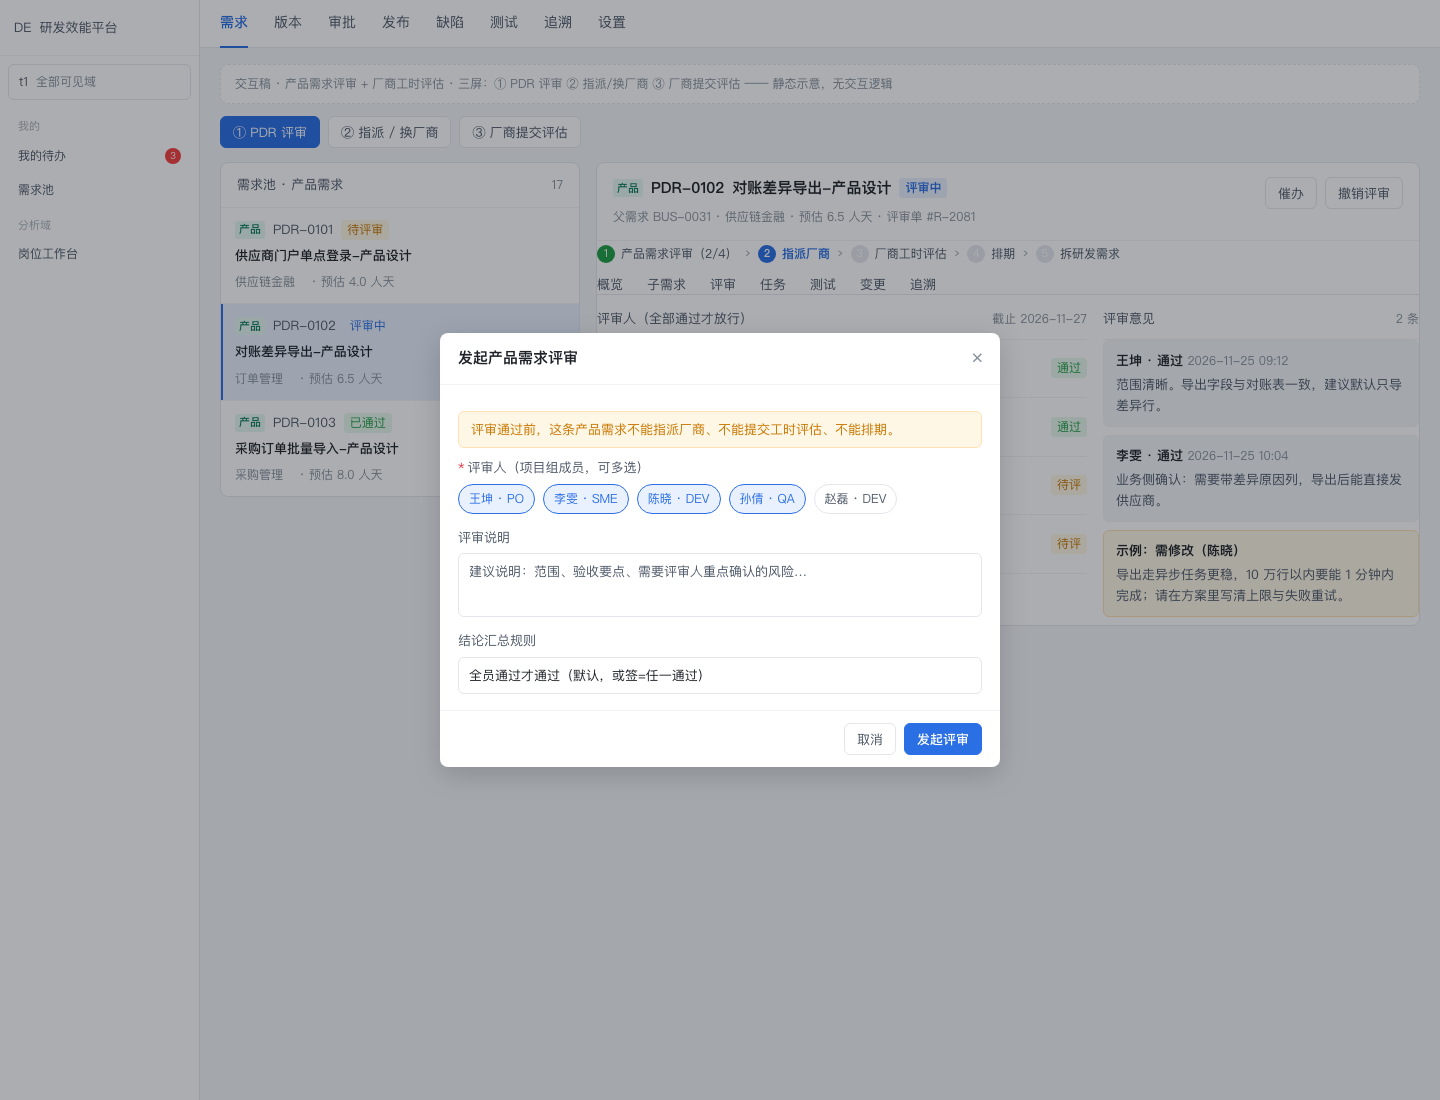
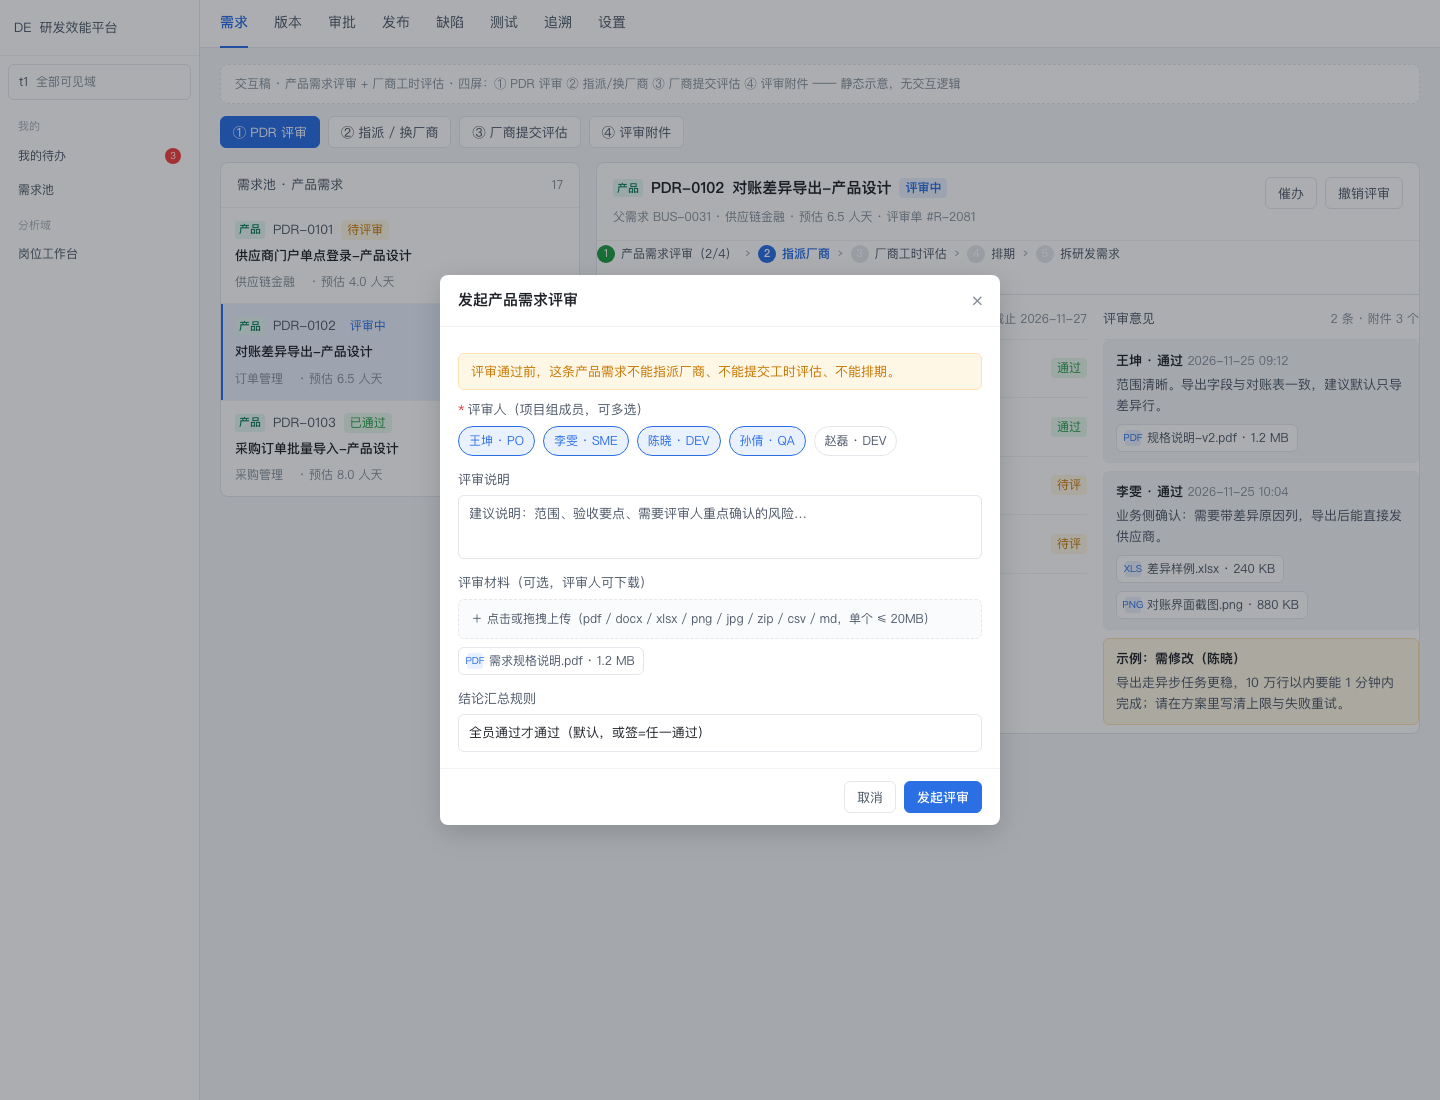
docs: 方案补「评审附件」——复用既有 attachment 基础设施（bizType=PDR_REVIEW），含权限/白名单/20MB/评审结束只读与 B6–B9 验收；交互稿加第 4 屏

diff --git a/docs/teamflow/prototype-pdr-review/index.html b/docs/teamflow/prototype-pdr-review/index.html
@@ -35,6 +35,10 @@
   .member-pick{display:flex;flex-wrap:wrap;gap:8px}
   .member-pick .m{display:flex;align-items:center;gap:6px;border:1px solid var(--border);border-radius:16px;padding:5px 10px;font-size:12px;background:#fff}
   .member-pick .m.sel{border-color:var(--primary);background:var(--primary-light);color:var(--primary)}
+  .attach{display:flex;flex-wrap:wrap;gap:8px;margin-top:8px}
+  .attach .a{display:flex;align-items:center;gap:6px;border:1px solid var(--border);border-radius:6px;padding:4px 8px;font-size:12px;color:var(--text-body);background:#fff}
+  .attach .a .ic{width:16px;height:16px;border-radius:3px;background:var(--primary-light);color:var(--primary);font-size:10px;display:inline-flex;align-items:center;justify-content:center}
+  .upload{border:1px dashed var(--border);border-radius:6px;padding:10px 12px;font-size:12px;color:var(--text-muted);display:flex;align-items:center;gap:8px;background:#FAFBFC}
   .diff{display:flex;gap:12px;align-items:center;font-size:13px}
   .diff .old{color:var(--text-muted);text-decoration:line-through}
   .diff .new{color:var(--primary);font-weight:600}
@@ -56,11 +60,12 @@
   <div class="main">
     <div class="topnav"><a class="active">需求</a><a>版本</a><a>审批</a><a>发布</a><a>缺陷</a><a>测试</a><a>追溯</a><a>设置</a></div>
     <div class="page">
-      <div class="proto-bar">交互稿 · 产品需求评审 + 厂商工时评估 · 三屏：① PDR 评审 ② 指派/换厂商 ③ 厂商提交评估 —— 静态示意，无交互逻辑</div>
+      <div class="proto-bar">交互稿 · 产品需求评审 + 厂商工时评估 · 四屏：① PDR 评审 ② 指派/换厂商 ③ 厂商提交评估 ④ 评审附件 —— 静态示意，无交互逻辑</div>
       <div class="switcher">
         <button class="btn on" data-sec="s1">① PDR 评审</button>
         <button class="btn" data-sec="s2">② 指派 / 换厂商</button>
         <button class="btn" data-sec="s3">③ 厂商提交评估</button>
+        <button class="btn" data-sec="s4">④ 评审附件</button>
       </div>
 
       <!-- ============ 屏 1：PDR 评审 ============ -->
@@ -124,14 +129,16 @@
                 </div>
 
                 <div class="panel" style="border:none">
-                  <div class="panel-head" style="padding:0 0 10px"><span>评审意见</span><span class="muted">2 条</span></div>
+                  <div class="panel-head" style="padding:0 0 10px"><span>评审意见</span><span class="muted">2 条 · 附件 3 个</span></div>
                   <div class="opinion">
                     <div class="who">王坤 · 通过 <span class="muted" style="font-weight:400">2026-11-25 09:12</span></div>
                     <div class="body">范围清晰。导出字段与对账表一致，建议默认只导差异行。</div>
+                    <div class="attach"><span class="a"><span class="ic">PDF</span>规格说明-v2.pdf · 1.2 MB</span></div>
                   </div>
                   <div class="opinion">
                     <div class="who">李雯 · 通过 <span class="muted" style="font-weight:400">2026-11-25 10:04</span></div>
                     <div class="body">业务侧确认：需要带差异原因列，导出后能直接发供应商。</div>
+                    <div class="attach"><span class="a"><span class="ic">XLS</span>差异样例.xlsx · 240 KB</span><span class="a"><span class="ic">PNG</span>对账界面截图.png · 880 KB</span></div>
                   </div>
                   <div class="opinion" style="background:#FFF7E6;border-color:#FFE0B2">
                     <div class="who">示例：需修改（陈晓）</div>
@@ -160,6 +167,11 @@
               <div class="field">
                 <label>评审说明</label>
                 <div class="input ph" style="min-height:64px">建议说明：范围、验收要点、需要评审人重点确认的风险…</div>
+              </div>
+              <div class="field">
+                <label>评审材料（可选，评审人可下载）</label>
+                <div class="upload">＋ 点击或拖拽上传（pdf / docx / xlsx / png / jpg / zip / csv / md，单个 ≤ 20MB）</div>
+                <div class="attach"><span class="a"><span class="ic">PDF</span>需求规格说明.pdf · 1.2 MB</span></div>
               </div>
               <div class="field" style="margin:0">
                 <label>结论汇总规则</label>
@@ -274,6 +286,39 @@
               <div class="hint" style="margin-top:10px">审批通过后评估单绑定本厂商；换厂商会使其失效。审批人：产品经理 → 项目域负责人。</div>
             </div>
             <div class="modal-foot"><button class="btn">取消</button><button class="btn btn-primary">提交评估</button></div>
+          </div>
+        </div>
+      </section>
+      <!-- ============ 屏 4：评审附件 ============ -->
+      <section class="sec" id="s4">
+        <div class="panel" style="max-width:860px">
+          <div class="detail-head">
+            <div>
+              <div class="detail-title"><span class="tag tag-pdr">产品</span> <span class="mono">PDR-0102</span> 对账差异导出-产品设计 <span class="pill pill-blue">评审中</span></div>
+              <div class="meta">当前登录：<b>陈晓 · 研发负责人（评审人）</b> · 评审单 #R-2081 · 截止 2026-11-27</div>
+            </div>
+            <div class="head-actions"><button class="btn">下载全部（3）</button></div>
+          </div>
+
+          <div class="warn">附件只有「本次评审的评审人 / 发起人」能在评审进行中上传；评审结束后只读，下载仍走鉴权（越权 404）。</div>
+
+          <div class="panel" style="border:none">
+            <div class="panel-head" style="padding:0 0 10px"><span>我的评审意见</span><span class="muted">提交后可修改，直到结论生成</span></div>
+            <div class="field"><label>结论</label>
+              <div class="member-pick"><span class="m">通过</span><span class="m sel">需修改</span><span class="m">驳回</span></div>
+            </div>
+            <div class="field"><label>意见</label>
+              <div class="input" style="min-height:64px">导出走异步任务更稳，10 万行以内要能 1 分钟内完成；附上压测数据。</div>
+            </div>
+            <div class="field" style="margin:0">
+              <label>附件（最多 5 个，单个 ≤ 20MB）</label>
+              <div class="upload">＋ 上传附件（pdf / docx / xlsx / png / jpg / zip / csv / md）</div>
+              <div class="attach">
+                <span class="a"><span class="ic">XLS</span>10万行压测结果.xlsx · 620 KB</span>
+                <span class="a"><span class="ic">PDF</span>导出方案-v3.pdf · 1.8 MB</span>
+              </div>
+            </div>
+            <div class="modal-foot" style="border:none;padding:12px 0 0"><button class="btn">取消</button><button class="btn btn-primary">提交意见</button></div>
           </div>
         </div>
       </section>

diff --git a/docs/teamflow/CHANGE-PDR-REVIEW-VENDOR-ESTIMATE.md b/docs/teamflow/CHANGE-PDR-REVIEW-VENDOR-ESTIMATE.md
@@ -23,6 +23,8 @@
 | 产品需求评审 | **不存在**。仅业务需求有 `REQ_REVIEW`，且审批通过由回调自动推进 POOLED | `PlatformContract`/`StateTables.java:66-71`；`req-service/.../requirement/RequirementReviewCallback.java:26-30` |
 | 审批引擎能力 | 支持 5 类单据、节点会签/或签（`MODE_ALL`/`MODE_ANY`）、审批人来源 `ROLE/USER/SUPERVISOR/DOMAIN_OWNER`，可复用来做「多人评审」 | `req-service/.../approval/WorkflowDefinition.java:27-28`、`ApproverResolver.java:18-78`、`ApprovalEngine.java:542` |
 | 项目组 / 项目成员 | **全仓不存在**（`grep -rniE "project_member\|projectMember\|sys_project\|项目组"` 零命中） | 需新增，否则「评审人从项目组成员里选」没有数据来源 |
+| 附件能力 | **已有通用附件基础设施**：`attachment` 表（`biz_type/biz_id/file_name/path/size/content_type/sha256/uploader_id`）+ `GET/POST/DELETE /attachments` + `/{id}/download`；限制 20MB、校验 bizId 归属、写 `ATTACH_DELETE` 审计 | `req-service/src/main/java/com/example/req/attachment/{AttachmentController,AttachmentService,AttachmentEntity}.java`；`AttachmentService.java:55`（20MB）、`:278-294`（bizType 白名单） |
+| 附件业务类型 | 目前只支持 `REQ / DEFECT / TEST_PLAN / WIKI_PAGE` 四类；路由权限落 `page("req.pool","defect.list","test.cases","collab.wiki")` | `AttachmentService.java:278-294`、`PermissionRouteTable.java:393-394` |
 | 迁移现状 | 最新 `V16__requirement_change.sql`，新增从 **V17** 起 | `req-service/src/main/resources/db/migration/` |
 
 **一个容易踩的坑**：`POST /requirements/{id}/estimate` 在路由表里落到兜底规则 `^/requirements.*$ → page("req.pool","me.tasks")`（`PermissionRouteTable.java:163`），所以它**看起来**没有权限校验；真正的 403 来自服务层 `requireDeliverPermission`（`WbsEstimateService.java:583-590`）。改造时若要新增动作码，必须把精确规则插在这条兜底之前，否则会被页面权限放行。
@@ -89,7 +91,19 @@
 | `pdr_review` | `id, tenant_id, requirement_id, project_id, instance_id, status(DRAFT/IN_REVIEW/PASSED/REJECTED/CANCELLED), conclusion, initiator_id, created_at, closed_at` | **`uk(requirement_id) where status='IN_REVIEW'`**（同一需求同时只允许 1 张在评）；`idx(tenant_id, status)` |
 | `pdr_review_opinion` | `id, tenant_id, review_id, reviewer_id, decision(PASS/NEED_CHANGE/REJECT), comment, created_at` | `uk(review_id, reviewer_id)`（同一人只留一条有效意见，重提覆盖并进历史） |
 
-### 4.2 既有表增量
+### 4.2 评审附件（复用既有附件表，不新增表）
+
+评审意见要能带附件，**不新建表**，复用 `attachment`：
+
+| 项 | 取值 |
+|---|---|
+| `biz_type` | 新增白名单值 `PDR_REVIEW`（`AttachmentService.normalizeType` 扩展） |
+| `biz_id` | `pdr_review.id`（评审单级，不挂到单条意见上——意见与附件都在评审单下，读侧按人分组） |
+| 可选扩展 | 若需要"附件属于某条意见"，加一列 `ref_id BIGINT NULL`（指向 `pdr_review_opinion.id`），缺省**不加**，先按评审单维度 |
+
+> 路由权限沿用 `page("req.pool", …)`（`PermissionRouteTable.java:393-394`），上传的**归属校验**放在服务层（只允许本次评审的评审人/发起人在评审进行中上传）。
+
+### 4.3 既有表增量
 
 | 表 | 新增列 | 说明 |
 |---|---|---|
@@ -111,7 +125,16 @@
 | `POST` | `/pdr-reviews/{reviewId}/conclude` | 汇总结论（**也可以全票后自动汇总**，见 §6 R2） | 动作码 `req.action.pdr_review_conclude` |
 | `GET` | `/requirements/{id}/pdr-review` | 读评审单 + 意见列表 | 页面码 `req.pool` |
 
-### 5.2 变更
+### 5.2 评审附件（复用 `/attachments`，不新增端点）
+
+| 方法 | 路径 | 说明 |
+|---|---|---|
+| `POST` | `/attachments?bizType=PDR_REVIEW&bizId={reviewId}` | 评审人上传附件（multipart `file`）；仅 `IN_REVIEW` 期间、仅该评审的评审人/发起人 |
+| `GET` | `/attachments?bizType=PDR_REVIEW&bizId={reviewId}` | 列附件（评审人、发起人、能看到该需求的角色） |
+| `GET` | `/attachments/{id}/download` | 下载（走现有鉴权与范围校验） |
+| `DELETE` | `/attachments/{id}` | 删除：仅上传者本人或产品经理，且评审未结束 |
+
+### 5.3 变更
 
 | 接口 | 变更 |
 |---|---|
@@ -126,6 +149,7 @@
 - **R3 换厂商**：允许窗口 = RD 处于 `TODO` 且 PDR 未进 `IN_DEV`；换厂商 → 该需求 `APPROVED` 评估单派生 `STALE`（原因 `VENDOR_CHANGED`）→ 状态回到「待评估」；`IN_DEV` 之后 409 `VENDOR_LOCKED`；换厂商必须填原因，写 `VENDOR_CHANGED` 审计并通知新旧厂商。
 - **R4 厂商评估**：厂商账号（`VENDOR_PM` 与厂商研发）可提交评估，且 `requirement.assignee_vendor_id == user.vendorId`，否则 `403 OUT_OF_SCOPE`；内部 PMO/研发**保留提交权**（缺省保留，便于兜底），但同样要求先指派厂商。
 - **R5 幂等与并发**：同一需求同时只有 1 张 `IN_REVIEW` 评审单、1 张 `ACTIVE` 评估单；并发发起/重复提交用唯一约束 + 409 兜底；换厂商与提交评估加乐观锁（`version`）避免「换厂商后立刻被旧厂商提交评估」。
+- **R7 评审附件**：`bizType=PDR_REVIEW` 时，服务层校验「调用者是本次评审的评审人或发起人」且「评审单状态 = IN_REVIEW」，否则 `403 NOT_REVIEWER` / `409 REVIEW_CLOSED`；上传沿用 20MB 上限与 `sha256`；类型白名单（缺省 `pdf/docx/xlsx/png/jpg/zip/csv/md`），非白名单 `415 UNSUPPORTED_MEDIA_TYPE`；**不落公开 URL**，下载一律过鉴权（越权 404，不泄露存在性）；评审结束后附件只读，删除 → 409 `REVIEW_CLOSED`。
 - **R6 审计**：`PDR_REVIEW_START` / `PDR_REVIEW_OPINION` / `PDR_REVIEW_REJECT` / `PDR_REVIEW_PASS` / `VENDOR_CHANGED` / `ESTIMATE_STALE_BY_VENDOR`，全部进动态流与追溯。
 
 ## 7. 权限与动作码
@@ -144,8 +168,10 @@
 ![PDR 评审](prototype-pdr-review/shot-1-pdr-review.png)
 ![指派/换厂商](prototype-pdr-review/shot-2-vendor-transfer.png)
 ![厂商提交评估](prototype-pdr-review/shot-3-vendor-estimate.png)
+![评审附件](prototype-pdr-review/shot-4-review-attachments.png)
 
 
+0. **评审附件**：发起评审弹窗里可先挂「评审材料」；每位评审人提交意见时可附 1–5 个附件（截图里是「规格说明.pdf / 差异样例.xlsx」这类），意见卡下方展示附件 chip（文件名 + 大小 + 下载）；评审结束后 chip 变只读、无删除按钮。
 1. **PDR 详情新增「评审」tab**：发起按钮 + 评审人选择（只能选项目组成员，多选）+ 说明；列表展示每人「通过/需修改/驳回 + 意见 + 时间」；顶部结论条（N/M 已评）。
 2. **指派厂商弹窗改造**：加「换厂商会作废已通过的工时评估，需重新评估」的黄色提示；原因必填；`IN_DEV` 后按钮禁用并给原因。
 3. **工时评估弹窗改造**：显示「承接厂商」徽标；厂商账号进入时默认本单位；非本厂商或无权限时按钮禁用 + 悬停原因（沿用 r25 的 `需要权限：<码>` 文案形态）。
@@ -156,7 +182,7 @@
 | 样例 | 期望 |
 |---|---|
 | 项目 | `DEMO-PROJ-1 供应链平台`，成员 5 人（产品经理/域负责人/研发/测试/厂商 PM） |
-| PDR-1 | 待评审（评审单 IN_REVIEW，2/4 已评） |
+| PDR-1 | 待评审（评审单 IN_REVIEW，2/4 已评），带 2 个评审附件（`规格说明.pdf`、`差异样例.xlsx`） |
 | PDR-2 | 评审通过、已指派 VEN-A、待提交评估 |
 | PDR-3 | 评审通过、VEN-A 评估通过、已排期 |
 | RD | 挂在 PDR-3 下，`TODO`（可用于演示换厂商 → 评估失效） |
@@ -175,8 +201,12 @@
 | B3 | 重新发起并 4 人全通过 | `PASSED`；此后指派厂商 200 |
 | B4 | 评审人不在项目组 | 400 `REVIEWER_NOT_IN_PROJECT` |
 | B5 | 项目组为空发起评审 | 按回退规则（产品经理+域负责人）成功，响应带 `fallback:true` |
+| B6 | 评审人 `bizType=PDR_REVIEW` 上传 2MB PDF | 201；`GET /attachments` 能看到；下载 200 内容一致（sha256 相同） |
+| B7 | 非本评审的评审人上传 | 403 `NOT_REVIEWER` |
+| B8 | 评审结束后再上传/删除 | 409 `REVIEW_CLOSED`；下载仍可（只读） |
+| B9 | 上传 25MB 文件 / 上传 `.exe` | 413 `FILE_TOO_LARGE` / 415 `UNSUPPORTED_MEDIA_TYPE` |
 
-门禁：既有 9 套不得降（`rbac` / `access` / `platform` / `negative` / `release-flow` / `gate-order` / `automation` / `change` / `demo-reset`）；新增 `scripts/pdr-flow-verify.sh` ≥18 条断言（含 A1–A5、B1–B5 与换厂商幂等），接入 `make test`。
+门禁：既有 9 套不得降（`rbac` / `access` / `platform` / `negative` / `release-flow` / `gate-order` / `automation` / `change` / `demo-reset`）；新增 `scripts/pdr-flow-verify.sh` ≥24 条断言（含 A1–A5、B1–B9、换厂商幂等与附件越权），接入 `make test`。
 
 ## 11. 迁移与兼容
 
@@ -189,6 +219,7 @@
 
 **后端**：`requirement`（服务/控制器/规则/错误码）、`approval`（新单据类型 + 回调）、`estimate`（vendors 绑定）、`sys`（项目组 CRUD）、`platform-contract`（动作码/状态表）、`platform-common`（路由表）、迁移 2 条。
 **前端**：需求详情（评审 tab、评估卡、指派厂商弹窗）、项目组管理页、审批中心（新单据类型文案）、动作按钮禁用原因。
+**附件**：`AttachmentService.normalizeType` 加 `PDR_REVIEW`、`resolveBiz` 增加评审单归属解析、上传/删除的评审态校验、前端评审 tab 附件区。
 **脚本/数据**：`platform-demo-reset.sh`（新夹具）、`pdr-flow-verify.sh`（新门禁）、`SeedService`（项目组种子）、`DEMO-BY-ROLE.md`、`FLOW-CONTROL-AUDIT.md`。
 
 **风险**
@@ -199,6 +230,7 @@
 | 存量数据无项目组 | 老 PDR 无法评审 | 回退规则（产品经理 + 域负责人）并标记 `fallback` |
 | 状态机改动面大 | 旧门禁/演示脚本红 | 不改 PDR 状态机（用门禁而非新态），把风险限制在规则层 |
 | 厂商权限放大 | 越权看到别家需求 | 复用既有 `ScopeSql` 行级隔离 + `OUT_OF_SCOPE` 负向断言 |
+| 评审附件被滥用（大文件/恶意类型/越权下载） | 存储膨胀、信息泄露 | 20MB 上限 + 类型白名单 + `sha256` + 鉴权下载（越权 404）+ 评审结束只读；病毒扫描列为 P2（接 ClamAV 或不接，需产品确认） |
 
 ## 13. 建议分轮
 
@@ -208,5 +240,5 @@
 ## 14. 交付物清单
 
 1. `docs/teamflow/CHANGE-PDR-REVIEW-VENDOR-ESTIMATE.md` + `.html`（本文）
-2. `docs/teamflow/prototype-pdr-review/index.html`（3 屏交互稿）+ 截图
+2. `docs/teamflow/prototype-pdr-review/index.html`（4 屏交互稿：PDR 评审 / 指派换厂商 / 厂商评估 / 评审附件）+ 截图
 3. 流水线 PRD（由 TeamFlow 依据本文生成）→ 设计 → 技术方案 → 开发 → QA → 验收
